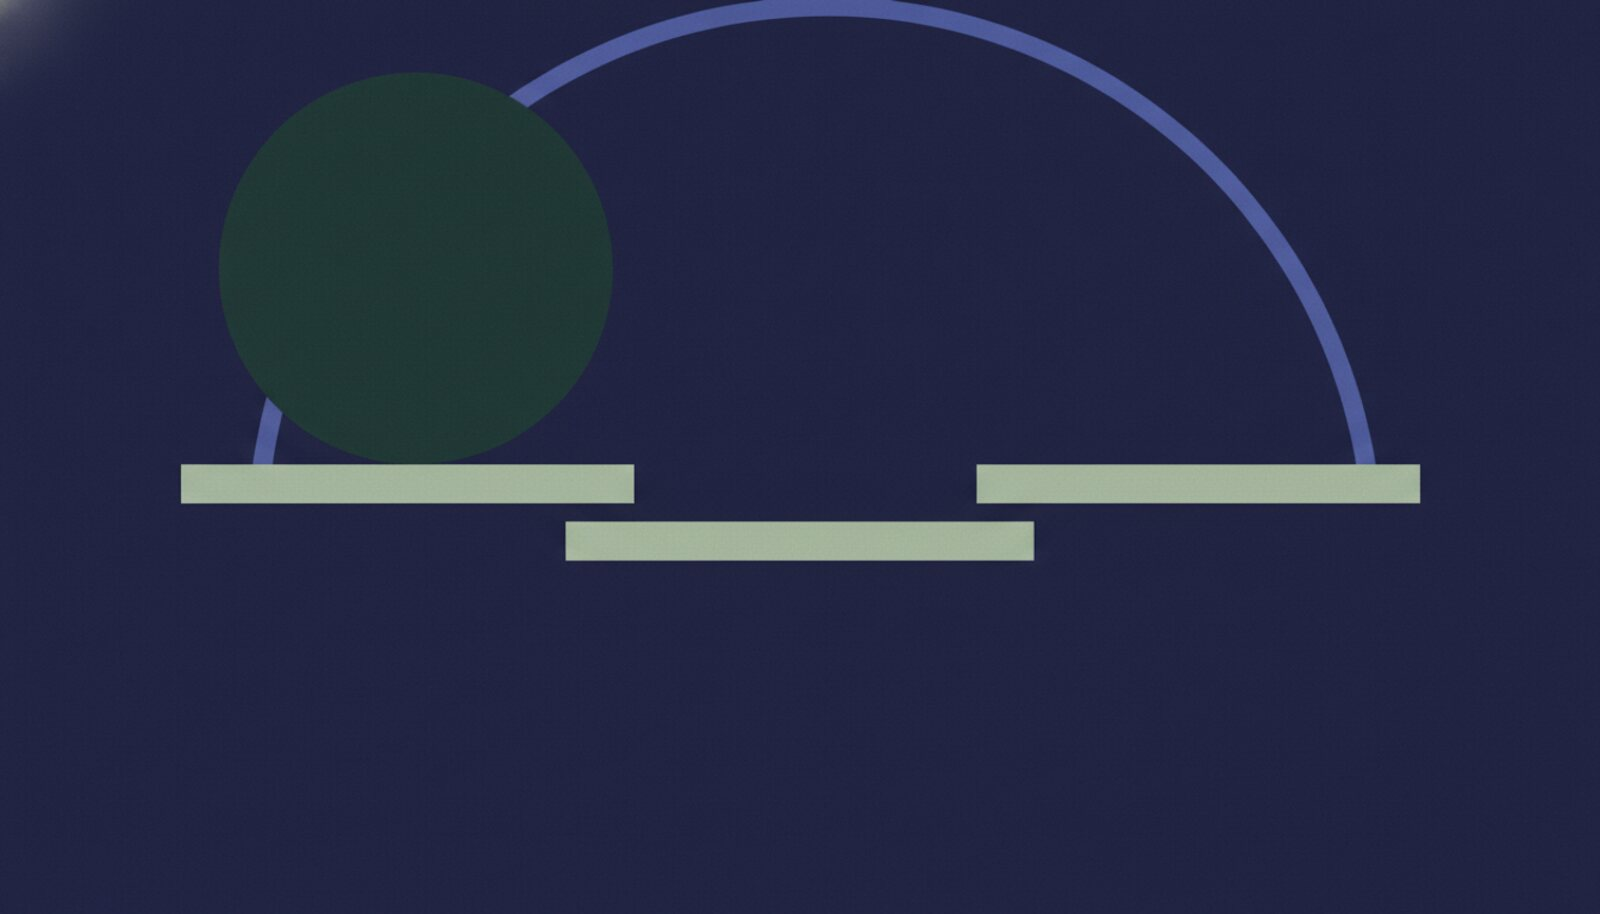
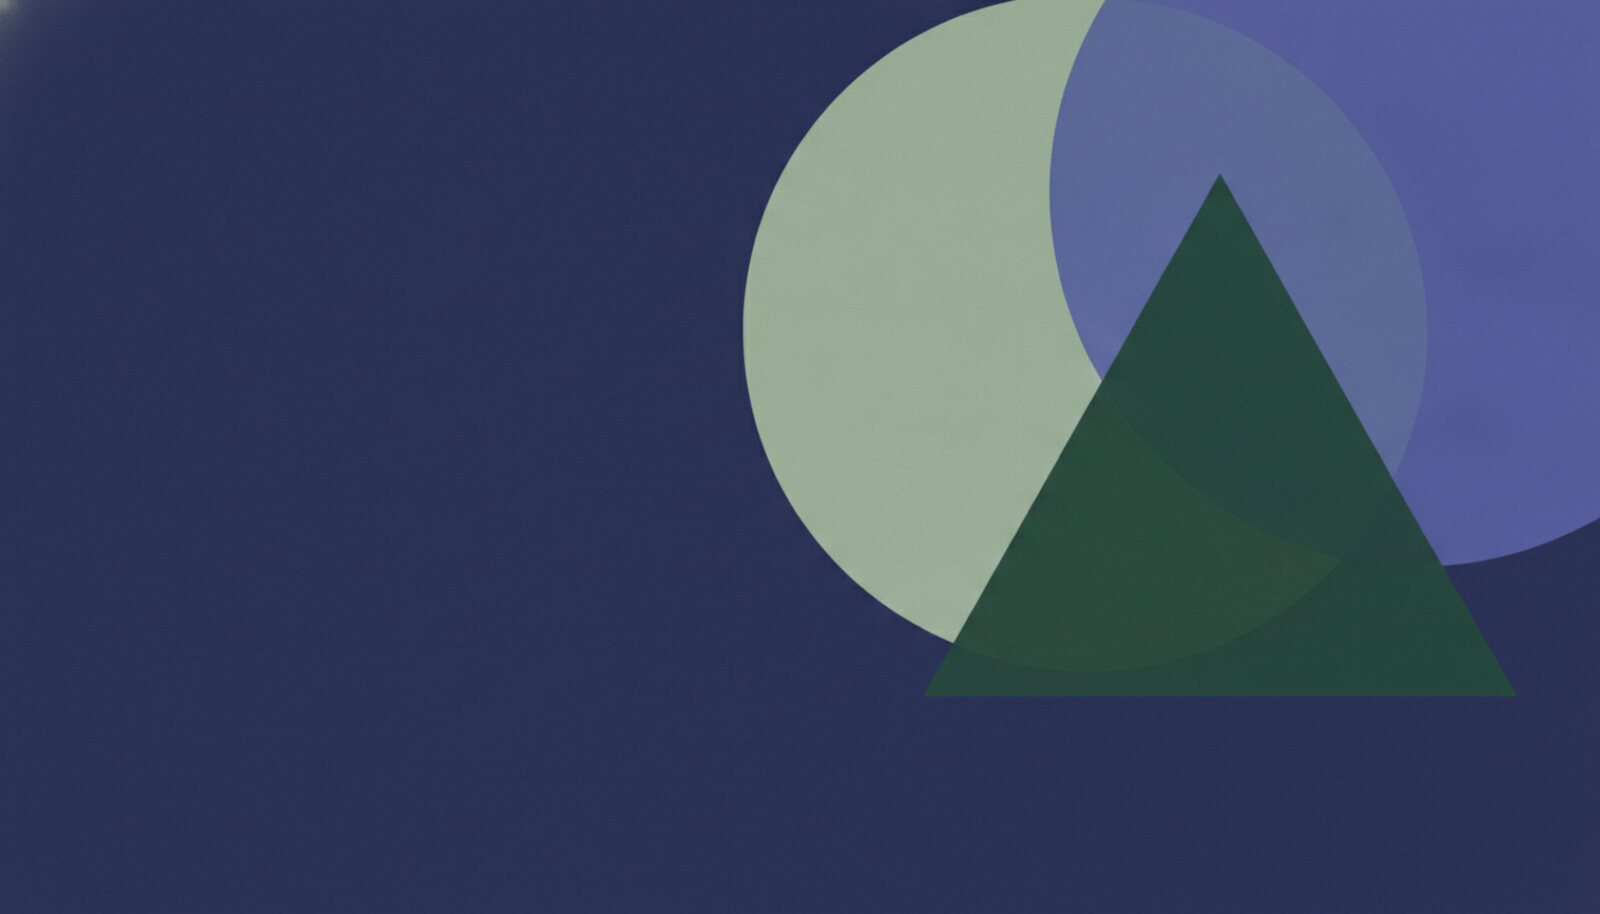
Bolder cover image for the wp.org hero and screenshot
Swap the cover for a bolder, more conceptual composition — large
overlapping circle, half-circle and triangle with flat colour-blend, on
the deep indigo field, clustered upper-right with the lower-left left
open for the headline. Drop the overlay to 40% so the shapes stay vivid
(they no longer sit under the text). Cover block re-verified valid;
screenshot.jpg recaptured from the real front page; Theme Check PASS.

Refs #538

diff --git a/wporg/patterns/hero-design-cover.php b/wporg/patterns/hero-design-cover.php
@@ -7,9 +7,9 @@
  * Inserter: true
  */
 ?>
-<!-- wp:cover {"url":"<?php echo esc_url( get_theme_file_uri( 'assets/images/cover-foundation.jpg' ) ); ?>","dimRatio":60,"overlayColor":"contrast","minHeight":78,"minHeightUnit":"vh","contentPosition":"bottom center","align":"full","style":{"spacing":{"padding":{"top":"5rem","right":"0","bottom":"0","left":"0"},"blockGap":"1.6rem"}},"layout":{"type":"constrained"}} -->
+<!-- wp:cover {"url":"<?php echo esc_url( get_theme_file_uri( 'assets/images/cover-foundation.jpg' ) ); ?>","dimRatio":40,"overlayColor":"contrast","minHeight":78,"minHeightUnit":"vh","contentPosition":"bottom center","align":"full","style":{"spacing":{"padding":{"top":"5rem","right":"0","bottom":"0","left":"0"},"blockGap":"1.6rem"}},"layout":{"type":"constrained"}} -->
 <div class="wp-block-cover alignfull has-custom-content-position is-position-bottom-center" style="padding-top:5rem;padding-right:0;padding-bottom:0;padding-left:0;min-height:78vh">
-	<span aria-hidden="true" class="wp-block-cover__background has-contrast-background-color has-background-dim-60 has-background-dim"></span>
+	<span aria-hidden="true" class="wp-block-cover__background has-contrast-background-color has-background-dim-40 has-background-dim"></span>
 	<img class="wp-block-cover__image-background" alt="" src="<?php echo esc_url( get_theme_file_uri( 'assets/images/cover-foundation.jpg' ) ); ?>" data-object-fit="cover"/>
 	<div class="wp-block-cover__inner-container">
 		<!-- wp:group {"align":"wide","style":{"spacing":{"blockGap":"1.2rem"}}} -->